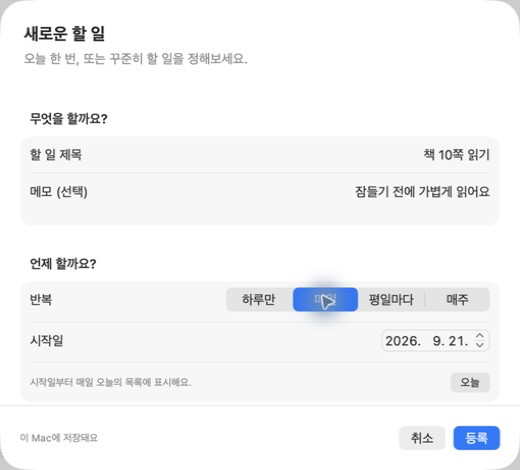
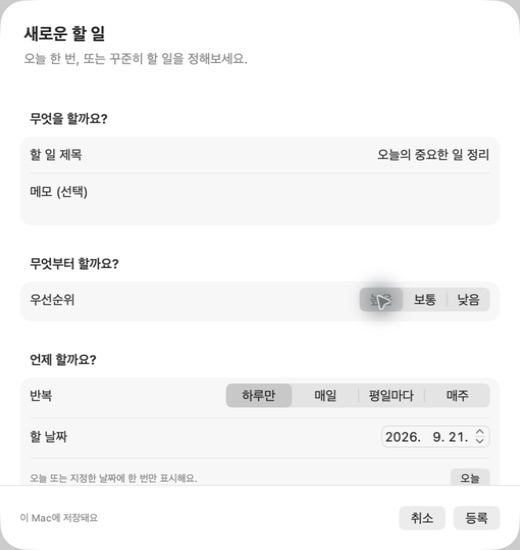
docs: update priority and menu bar usage with screenshots

diff --git a/README.md b/README.md
@@ -18,7 +18,7 @@
   <code>macOS 14+</code> &nbsp; <code>Swift 6</code> &nbsp; <code>SwiftUI + WidgetKit</code> &nbsp; <code>개발 중</code>
 </p>
 
-> **아직 정식 출시 전입니다.** 앱에서 일회성·반복 할 일을 등록하고 로컬에 저장할 수 있습니다. 날짜별 완료 체크와 7일·30일 통계를 지원합니다. 소형·중형 위젯과 공유 데이터 연결을 구현했으며, 실제 데스크톱 등록은 개발 서명 후 확인해야 합니다. 우선순위와 메뉴 막대의 목록 연결은 개발 예정입니다. 설치용 배포 파일은 아직 제공하지 않습니다.
+> **아직 정식 출시 전입니다.** 앱에서 일회성·반복 할 일을 등록하고 로컬에 저장할 수 있습니다. 날짜별 완료 체크와 7일·30일 통계를 지원합니다. 소형·중형 위젯과 공유 데이터 연결을 구현했으며, 실제 데스크톱 등록은 개발 서명 후 확인해야 합니다. 높음·보통·낮음 우선순위와 메뉴 막대에서의 완료 체크를 지원합니다. 설치용 배포 파일은 아직 제공하지 않습니다.
 
 ## 오늘 무엇부터 할까요?
 
@@ -27,7 +27,7 @@
 | 사용 공간 | 목표하는 경험 | 현재 상태 |
 | :--- | :--- | :--- |
 | **앱** | 오늘 할 일을 정리하고 중요한 순서대로 확인 | 등록·삭제·날짜별 완료·통계 구현 |
-| **메뉴 막대** | 작업 중에도 목록을 빠르게 열고 완료 체크 | 팝오버 및 앱 열기·종료 구현 |
+| **메뉴 막대** | 작업 중에도 목록을 빠르게 열고 완료 체크 | 오늘 목록·완료 체크·우선순위 변경 구현 |
 | **위젯** | 데스크톱에서 중요한 할 일과 진행 현황 확인 | 소형·중형 화면·공유 데이터 구현, 시스템 등록 검증 예정 |
 
 ## 미리보기
@@ -46,11 +46,11 @@
   <img src="docs/images/task-registration.png" alt="새로운 할 일 등록 화면. 제목, 메모, 반복 방식과 시작일을 지정할 수 있습니다." width="520">
 </p>
 
-두 이미지는 실제 앱에 예시 데이터를 입력해 캡처했습니다. 아래 위젯 이미지는 앱 내 미리보기이며 실제 데스크톱 위젯과 구분해 표시했습니다. 메뉴 막대 목록 화면은 데이터 연결 후 추가할 예정입니다.
+두 이미지는 실제 앱에 예시 데이터를 입력해 캡처했습니다. 아래 위젯 이미지는 앱 내 미리보기이며 실제 데스크톱 위젯과 구분해 표시했습니다. 메뉴 막대에서도 같은 목록의 완료 체크와 우선순위를 변경할 수 있습니다.
 
 ## 할 일 등록하기
 
-**할 일 추가** 또는 **⌘N**으로 등록 창을 열고 제목과 선택 사항인 메모를 입력합니다.
+**할 일 추가** 또는 **⌘N**으로 등록 창을 열고 제목과 선택 사항인 메모, 우선순위를 입력합니다.
 
 | 방식 | 표시되는 날 | 예시 |
 | :--- | :--- | :--- |
@@ -69,6 +69,23 @@
 목록 왼쪽 체크박스로 **오늘 완료**를 표시하거나 취소하세요. 완료하면 제목에 취소선이 표시되고 상단 완료 수가 즉시 갱신됩니다. 오늘에 해당하지 않는 일정은 체크할 수 없습니다.
 
 반복 일정의 완료 상태는 날짜별로 보관합니다. 오늘 체크해도 다음 반복일에는 다시 미완료로 표시됩니다. 알림 전송은 아직 지원하지 않습니다.
+
+## 중요한 일부터
+
+우선순위는 **높음 · 보통 · 낮음** 중에서 선택합니다. 기본값과 기존 항목은 **보통**입니다. 등록 창에서 지정하거나 앱 목록 오른쪽 선택 메뉴에서 바로 바꿀 수 있습니다.
+
+앱과 메뉴 막대는 **미완료 → 높은 우선순위 → 등록 순서**로 정렬합니다. 위젯에도 높은 우선순위의 미완료 항목이 먼저 표시되고, 높은 항목에는 깃발 표시가 붙습니다. 반복 일정의 우선순위는 해당 일정 전체에 적용됩니다.
+
+## 메뉴 막대에서 바로 체크
+
+화면 상단의 **P2J**를 누르면 오늘의 목록과 완료 현황을 볼 수 있습니다.
+
+- 체크박스로 완료 표시·취소
+- 항목 오른쪽에서 우선순위 변경
+- 긴 목록은 스크롤해서 확인
+- **앱 열기**로 전체 목록과 통계 확인
+
+앱과 메뉴 막대가 같은 저장소를 사용하므로 변경이 함께 반영됩니다. 앱 창을 닫아도 메뉴 막대는 유지되며, **종료**를 누르면 앱이 종료됩니다.
 
 ## 꾸준함을 통계로 보기
 
@@ -153,10 +170,10 @@ xcodebuild \
 - [x] 일회성·매일·평일·매주 할 일 등록 및 삭제
 - [x] 오늘·반복 일정·전체 목록
 - [ ] 등록한 할 일 수정
-- [ ] 우선순위 설정 및 정렬
+- [x] 우선순위 설정 및 앱·메뉴 막대·위젯 공통 정렬
 - [x] 날짜별 완료 체크와 오늘의 진행 현황
 - [x] 최근 7일·30일 통계 및 일별 차트
-- [ ] 메뉴 막대에서 실제 목록 확인 및 완료 처리
+- [x] 메뉴 막대에서 실제 목록 확인·완료 처리·우선순위 변경
 - [x] App Groups를 통한 위젯용 데이터 전달
 - [x] 소형·중형 위젯의 미완료 목록과 완료 현황
 - [ ] 서명된 앱에서 데스크톱 위젯 등록·갱신 검증

diff --git a/docs/DEVELOPMENT.md b/docs/DEVELOPMENT.md
@@ -45,7 +45,7 @@ swift test
 
 외부 의존성 없는 Swift 패키지로 일정 모델과 저장소를 검사합니다. Xcode 앱은 같은 소스를 직접 빌드하므로 별도 패키지 연결은 필요하지 않습니다.
 
-23개 테스트가 일회성·매일·평일·매주 일정, 시간대 이동, 저장·재로딩, 삭제, 빈 제목 차단, 손상 파일 보존, 실제 파일 쓰기 실패 시 상태 보존을 검증합니다. 날짜별 완료·취소, 구버전 파일 호환, 통계 합계·기간·삭제 이력 보존도 검사합니다.
+28개 테스트가 일회성·매일·평일·매주 일정, 시간대 이동, 저장·재로딩, 삭제, 빈 제목 차단, 손상 파일 보존, 실제 파일 쓰기 실패 시 상태 보존을 검증합니다. 날짜별 완료·취소, 구버전 파일 호환, 통계 합계·기간·삭제 이력 보존도 검사합니다.
 
 ## 현재 데이터 동작
 
@@ -58,10 +58,10 @@ swift test
 - 불러오기 실패 시 변경을 막아 기존 파일을 보존하고 오류를 표시합니다. 저장 실패 시 목록을 먼저 변경하지 않으며 등록 폼도 닫지 않습니다.
 - 완료 날짜를 항목별로 저장하며, 반복 일정은 다음 날 독립적으로 체크할 수 있습니다.
 - 삭제는 일정 보관 처리로 구현합니다. 삭제일부터 새로운 발생을 중단하고 과거 통계와 완료 기록은 보존합니다. 복원 UI는 아직 없습니다.
-- 저장 버전은 2이며 버전 1 데이터를 읽을 때 완료 기록을 빈 목록으로 보완합니다.
+- 저장 버전은 3이며 버전 1·2 파일을 읽을 수 있습니다. 없는 완료 기록은 빈 목록, 없는 우선순위는 보통으로 보완합니다.
 - 개별 날짜 건너뛰기 기능은 아직 없습니다.
 
-메뉴 막대에는 아직 실제 목록을 연결하지 않았습니다. 위젯에는 원본을 이동하지 않고 활성 일정의 표시용 복사본을 전달합니다. 기존 할 일과 완료 이력은 원래 저장소에 유지됩니다. 공유 실패 시 앱 저장을 막지 않으며 위젯 연결 화면에서 오류를 표시합니다.
+메뉴 막대는 앱과 같은 TaskStore를 사용하며 오늘의 목록에서 완료·취소 및 우선순위 변경을 처리합니다. 위젯에는 원본을 이동하지 않고 활성 일정의 표시용 복사본을 전달합니다. 기존 할 일과 완료 이력은 원래 저장소에 유지됩니다. 공유 실패 시 앱 저장을 막지 않으며 위젯 연결 화면에서 오류를 표시합니다.
 
 위젯 테스트는 스냅샷 저장·읽기, 메모·보관 항목 제외, 오늘/내일 완료 상태, 빈 목록·모두 완료, 서머타임 자정 엔트리, 손상 데이터, 성공한 변경만 전달하는 동작을 검증합니다.
 
@@ -87,3 +87,9 @@ swift test
 ## P2J 이름 변경과 데이터 호환
 
 GitHub 저장소와 로컬 폴더, Xcode 프로젝트·공유 스킴, 앱 제품 이름은 P2J입니다. 기존 등록 데이터를 유지하기 위해 내부 타깃 이름(TODOFirst), 번들 식별자와 Application Support/TODOFirst 저장 위치는 유지합니다. 빌드 명령과 Xcode 실행에서는 P2J 스킴을 선택합니다.
+
+## 우선순위와 메뉴 막대
+
+우선순위는 높음·보통·낮음이며, 활성 일정만 변경할 수 있습니다. 변경 시 완료 기록을 유지하고 저장 성공 후 위젯용 복사본을 갱신합니다. 앱과 메뉴 막대는 미완료를 먼저, 그 안에서 우선순위·등록 시각·식별자 순으로 정렬합니다. 위젯도 같은 정렬 함수를 사용합니다.
+
+추가 테스트는 우선순위가 없는 이전 파일, 완료 여부와 우선순위 정렬, 저장·재실행·갱신 알림, 저장 실패 시 기존 값 보존, 위젯 정렬 일치를 검사합니다. 메뉴 막대도 날짜 변경을 30초 간격으로 다시 계산하며 저장 오류를 팝오버에 표시합니다.

diff --git a/docs/SCREENSHOTS.md b/docs/SCREENSHOTS.md
@@ -8,9 +8,9 @@
 | --- | --- | --- |
 | `images/widget-preview.png` | 앱 내 소형·중형 위젯 미리보기 | 2026-09-21, 실제 앱 렌더링. 데스크톱 위젯 등록 캡처가 아닙니다. |
 | `images/banner.svg` | README 소개 배너 | 문서용 벡터 그래픽. 앱 화면이 아닙니다. |
-| `images/app-preview.png` | 오늘의 목록: 일회성·매일·평일 예시 | 2026-09-21, P2J 완료 체크가 적용된 실제 앱 창 캡처 |
+| `images/app-preview.png` | 오늘의 목록: 일회성·매일·평일 예시 | 2026-09-21, P2J 완료 체크·우선순위가 적용된 실제 앱 창 캡처 |
 | `images/statistics.png` | 오늘의 달성률과 최근 7일 통계 | 2026-09-21, 실제 예시 항목 2개를 완료 처리한 화면 |
-| `images/task-registration.png` | 매일 반복 할 일 등록 폼 | 2026-09-21, 커밋 `1915913`의 실제 등록 화면 |
+| `images/task-registration.png` | 우선순위 선택이 포함된 할 일 등록 폼 | 2026-09-21, 실제 등록 화면에서 높음 우선순위를 선택한 캡처 |
 
 앱 화면은 실제 실행 결과입니다. 캡처 당시 창에 표시된 시스템 UI도 그대로 포함되어 있습니다. 위젯 이미지는 실제 앱의 미리보기 창을 캡처했습니다. 실제 데스크톱 등록 캡처는 서명 환경 검증 후 추가합니다.
 
@@ -23,4 +23,4 @@
 5. 캡처 날짜, 대상 커밋과 구현 상태를 이 문서에 기록합니다.
 6. GitHub에서 이미지 표시와 설명을 확인하고 관련 문서 커밋에 포함합니다.
 
-캡처용 예시 항목 3개를 직접 등록했으며 앱의 자동 생성 데이터는 아닙니다. 완료 체크·통계 캡처에는 동일한 예시 3개 중 2개를 완료 처리했습니다. 향후 추가할 화면은 우선순위 변경, 메뉴 막대 빠른 보기, 소형·중형 위젯입니다. 예상도나 목업을 추가한다면 실제 실행 화면과 구분해 표기합니다.
+캡처용 예시 항목 3개를 직접 등록했으며 앱의 자동 생성 데이터는 아닙니다. 완료 체크·통계 캡처에는 동일한 예시 3개 중 2개를 완료 처리했습니다. 우선순위 화면에는 예시 걷기 일정의 우선순위를 높음으로 설정했습니다. 향후 추가할 화면은 메뉴 막대 빠른 보기와 실제 데스크톱 위젯입니다. 예상도나 목업을 추가한다면 실제 실행 화면과 구분해 표기합니다.

diff --git a/docs/WIDGETS.md b/docs/WIDGETS.md
@@ -4,7 +4,7 @@
 
 ## 현재 구현
 
-소형·중형 위젯이 오늘 남은 일과 완료 현황을 표시합니다. 소형은 미완료 항목 최대 2개, 중형은 최대 3개를 등록 순서대로 표시합니다. 우선순위 정렬은 아직 없습니다. 위젯을 누르면 `p2j://today`로 앱을 엽니다. 위젯 안에서 직접 완료 체크하는 기능은 아직 없습니다.
+소형·중형 위젯이 오늘 남은 일과 완료 현황을 표시합니다. 소형은 미완료 항목 최대 2개, 중형은 최대 3개를 우선순위가 높은 순서로 표시합니다. 같은 우선순위 안에서는 등록 순서를 따르며, 높은 항목에는 깃발 표시가 붙습니다. 위젯을 누르면 `p2j://today`로 앱을 엽니다. 위젯 안에서 직접 완료 체크하는 기능은 아직 없습니다.
 
 앱의 **위젯 보기**에서 같은 화면 코드로 현재 데이터를 미리 볼 수 있습니다. 이 화면은 WidgetKit 실행 환경이 아니므로 데스크톱 위젯 등록 검증을 대체하지 않습니다.
 
